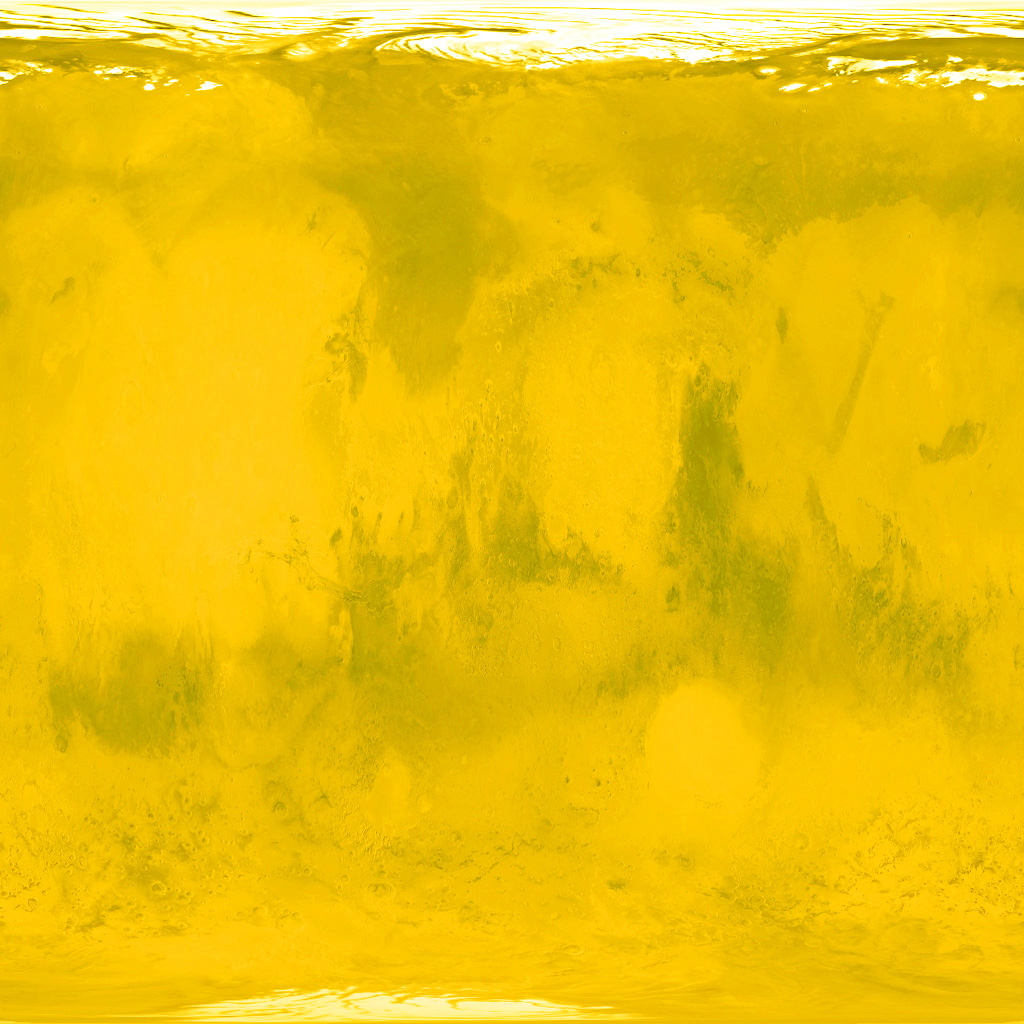
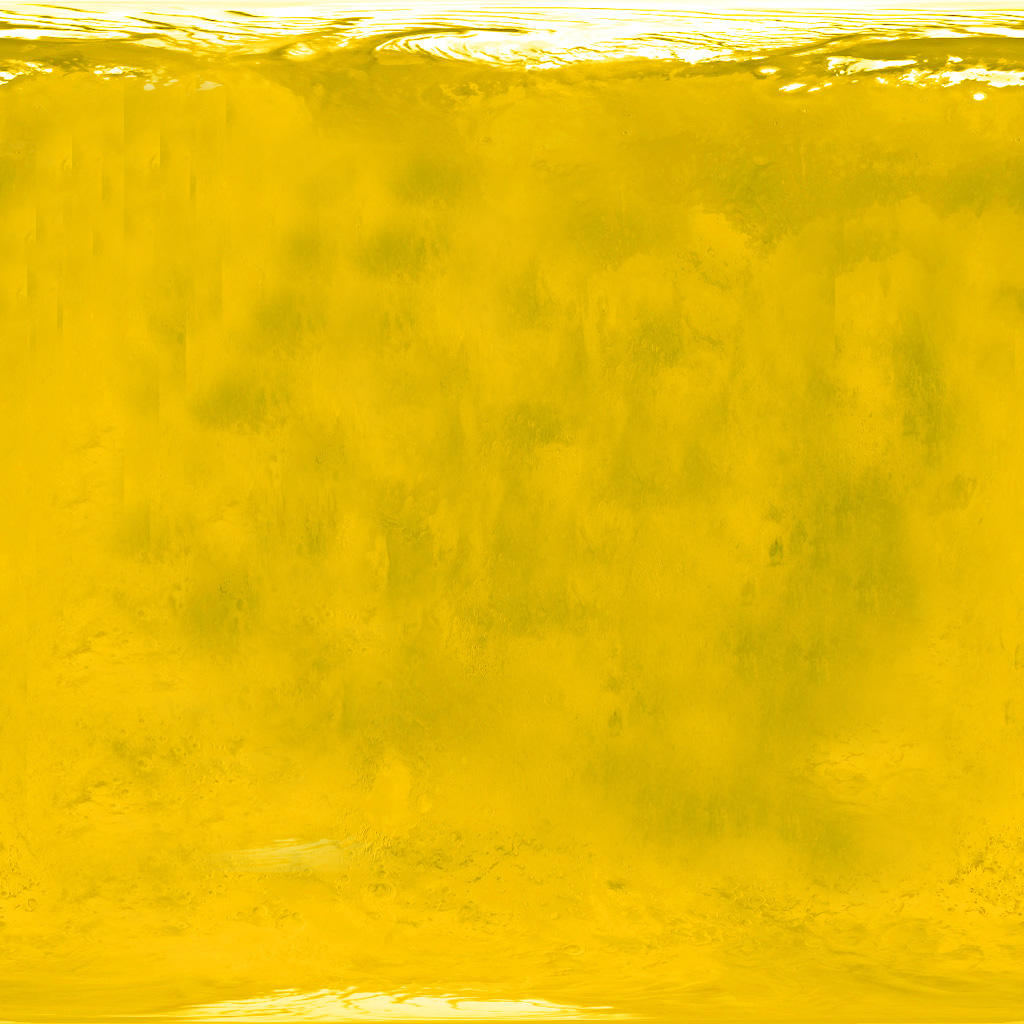
Correção de animação em Supernova.

diff --git a/assets/js/simulador.js b/assets/js/simulador.js
@@ -24,28 +24,51 @@ $(document).ready(function ()
 });
 
 
-
+function mock(){}
 function set_gigante_vermelha(massa_estrela) 
 {
 	console.log('Gigante vermelha');
-	$('#estrela').earth3d('destroy');
-	$('#estrela').replaceWith($('<canvas id="estrela" width="500" height="500"></canvas>'));
+	
 
 	// Começa a troca de estágios da estrela
 	// Gigante vermelha
-	$('#estrela').earth3d( 
-	{
-	  texture: 'assets/images/estrelas/gigante_vermelha.jpg', // Textura usada na estrela
-	});
+	
+	setTimeout(function (){
+		$('#estrela').earth3d('destroy');
+		$('#estrela').replaceWith($('<canvas id="estrela" width="500" height="500"></canvas>'));
+		$('#estrela').earth3d( 
+		{
+		  texture: 'assets/images/estrelas/gigante_vermelha.jpg', // Textura usada na estrela
+		});
+    }, 5000);
+	
 	
 	if(massa_estrela < 5) 
 	{ // Anã branca
-		setInterval(set_ana_branca(massa_estrela), 5000);
+		setTimeout(function (){
+			$('#estrela').earth3d('destroy');
+			$('#estrela').replaceWith($('<canvas id="estrela" width="400" height="400"></canvas>'));
+			$('#estrela').earth3d( 
+			{
+			  texture: 'assets/images/estrelas/ana_branca.jpg', // Textura usada na estrela
+			});
+	    }, 5000);
 	} 
 	else if(massa_estrela >= 5) 
 	{// Supernova
-		setInterval(set_super_nova(massa_estrela), 5000);
+		setTimeout(function (){
+			//$('#estrela').earth3d('destroy');
+			//$('#estrela').replaceWith($('<canvas id="estrela" width="400" height="400"></canvas>'));
+			 $( "#estrela" ).effect( "size", {
+				    to: { width: 350, height: 350 }
+				  }, 3000 );
+			$('#estrela').earth3d( 
+			{
+			  texture: 'assets/images/estrelas/supernova.jpg', // Textura usada na estrela
+			});
+	    }, 10000);
 	}
+	
 }
 
 function set_ana_branca(massa_estrela) 

diff --git a/application/views/home/index.php b/application/views/home/index.php
@@ -1,4 +1,4 @@
-<div class="col-md-8 col-sm-12 col-xs-8 margin-0 padding-0" id="container">
+<div class="col-md-8 col-sm-12 col-xs-12 margin-0 padding-0" id="container">
 
 	<div class="col-md-12 col-sm-12 col-xs-12 margin-0 padding-0" id="massa-estrela-home">
 		<div class="row col-md-12 col-sm-12 col-xs-12 margin-0 padding-0" id="conteiner-estrela-home">
@@ -16,8 +16,8 @@
 					</label>
 					<input type="text" class="integer form-control" name="massa_estrela" id="massa_estrela" value="" />
 				</div>
-		
-				<div class="form-group col-md-12">
+
+				<div class="form-group col-md-12 col-sm-12 col-xs-12">
 					<input type="button" value="COMEÇAR" id="btn_comecar" name="btn_comecar" class="col-md-12 btn button btn-lg" />
 				</div>
 			</form>

diff --git a/application/views/layouts/layout_base.php b/application/views/layouts/layout_base.php
@@ -73,7 +73,6 @@
 		<?php echo $content;?>
 	</body>
 
-    <script type="text/javascript" src="assets/js/requestanimationframe.polyfill.js"></script>
     <script type="text/javascript" src="assets/js/jquery-ui.min.js"></script>
     <script type="text/javascript" src="assets/js/sphere-hacked.js"></script>
     <script type="text/javascript" src="assets/js/jquery.earth-3d.js"></script>
